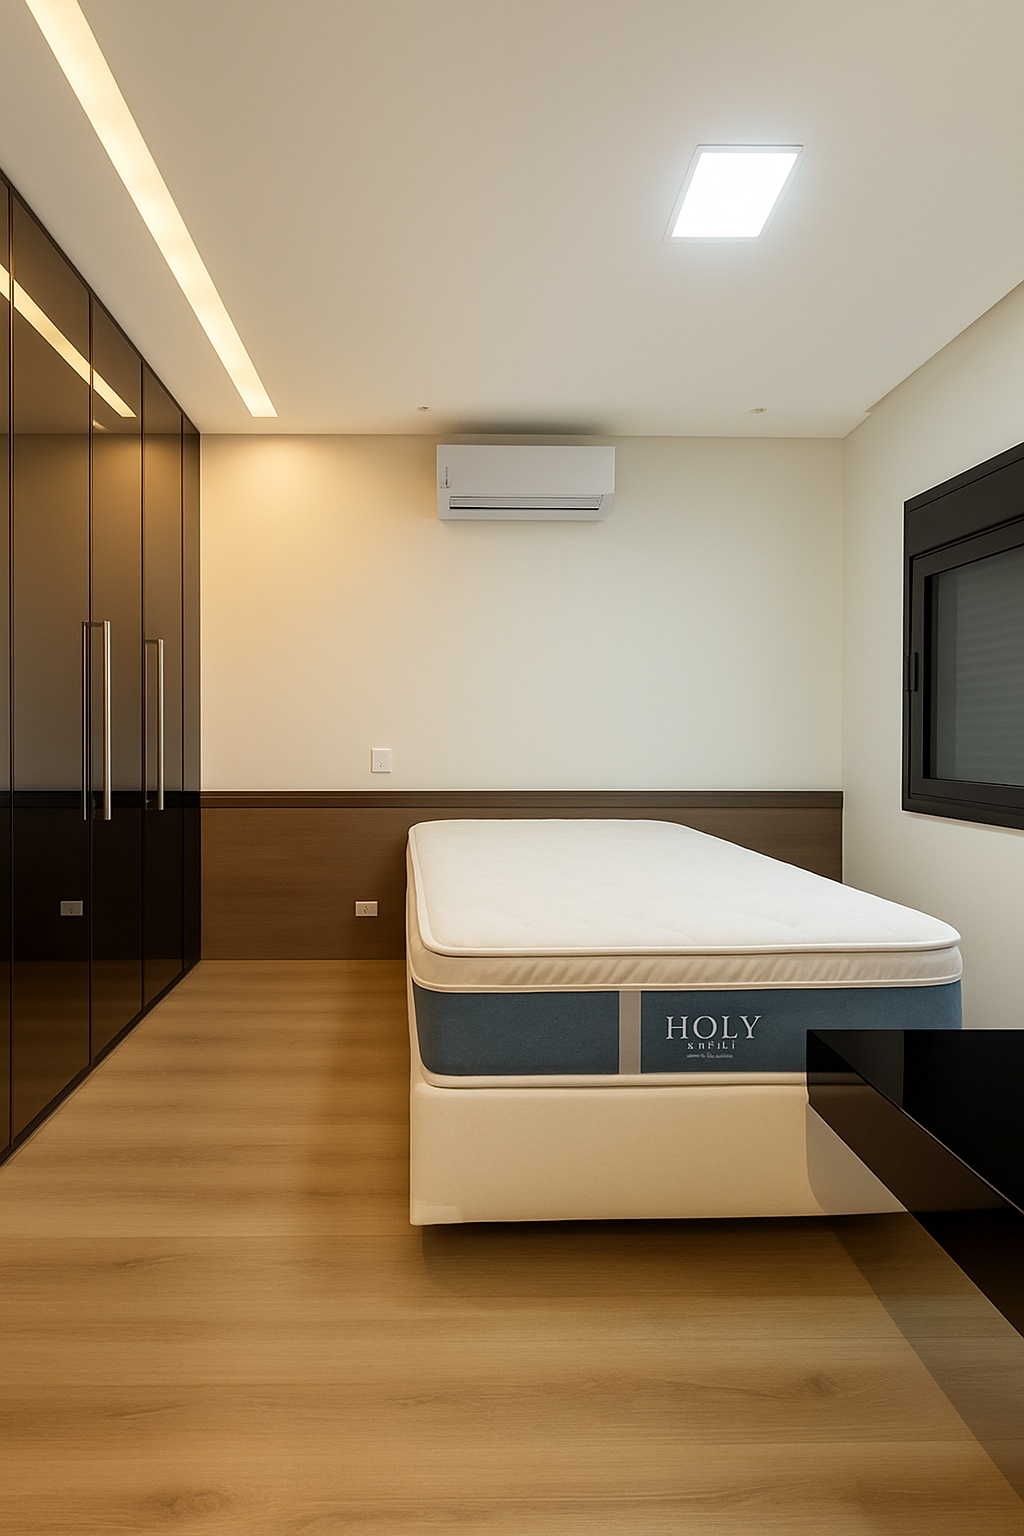
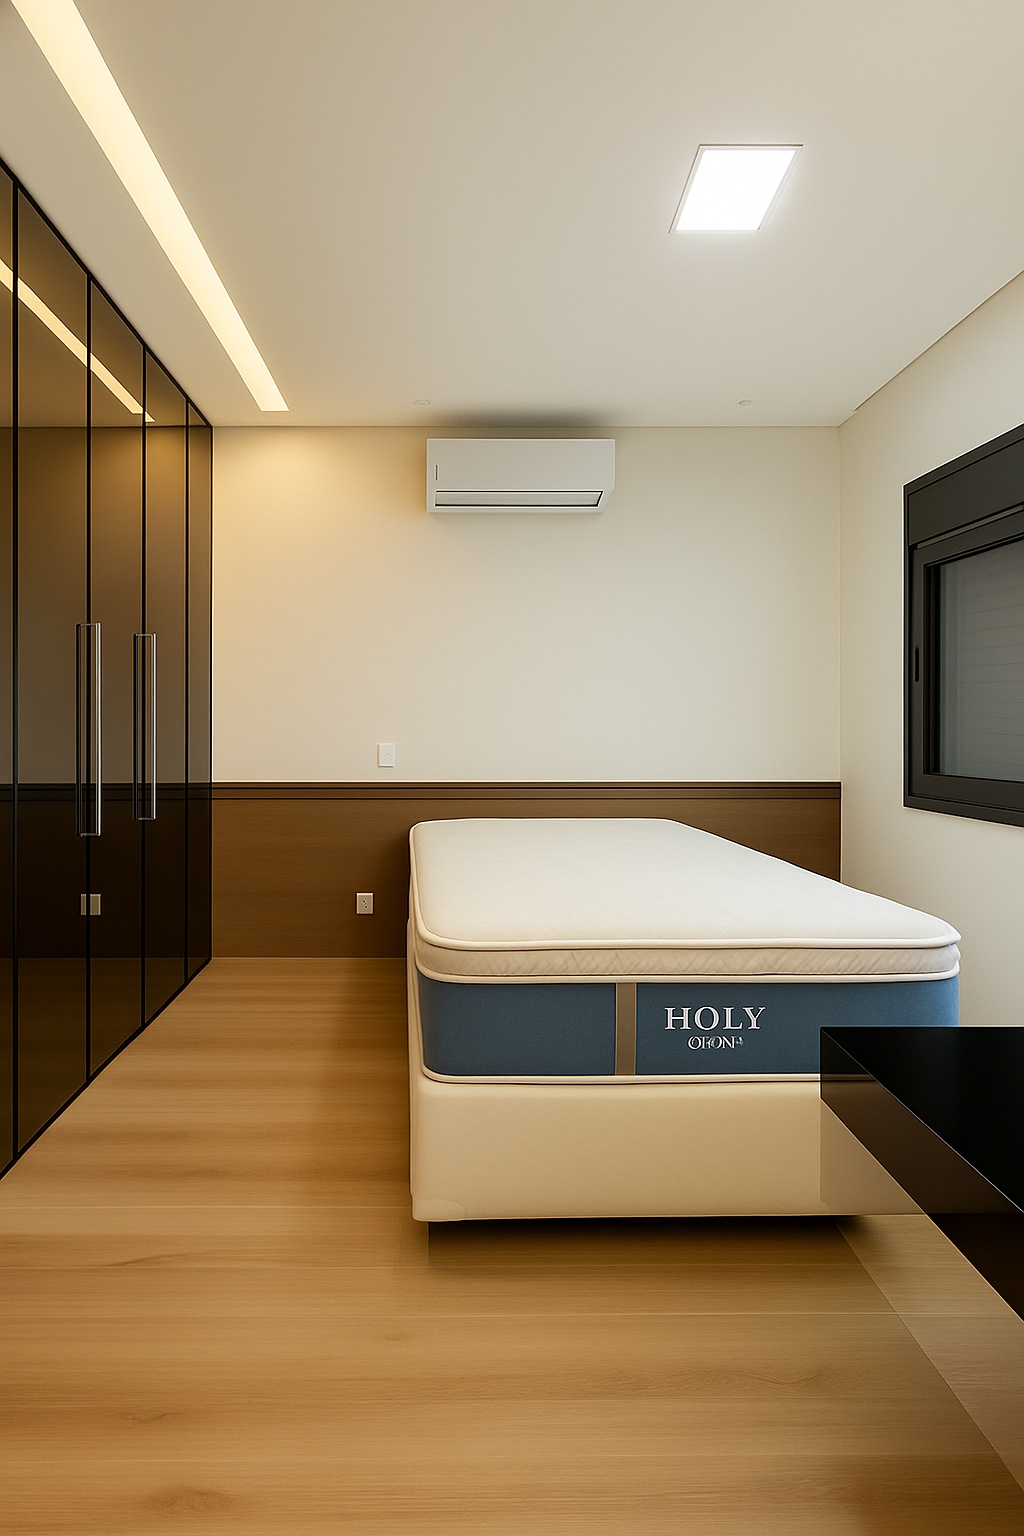
Urbanova: fix ordering/captions, remove 32 from gallery, update 14 glare and 32 comforter

diff --git a/js/listings.js b/js/listings.js
@@ -43,54 +43,36 @@ window.LISTINGS = {
     badge: 'Destaque',
     cover: 'images/listings/urbanova-paratehy/01_fachada.jpg',
     photos: [
-      /* — FACHADA — */
       { src: 'images/listings/urbanova-paratehy/01_fachada.jpg',          caption: 'Fachada Principal' },
-      { src: 'images/listings/urbanova-paratehy/11_fachada_2.jpg',         caption: 'Fachada · Vista Frontal 2' },
-
-      /* — HALL DE ENTRADA — */
-      { src: 'images/listings/urbanova-paratehy/02_hall.jpg',              caption: 'Hall de Entrada' },
-      { src: 'images/listings/urbanova-paratehy/32_extra_03_nb2.jpg',      caption: 'Sala de Estar · Vista Geral' },
-
-      /* — COZINHA INTERNA — */
-      { src: 'images/listings/urbanova-paratehy/18_cozinha_2.jpg',         caption: 'Cozinha Interna · Integração com Sala' },
+      { src: 'images/listings/urbanova-paratehy/11_fachada_2.jpg',        caption: 'Fachada · Vista Frontal 2' },
+      { src: 'images/listings/urbanova-paratehy/02_hall.jpg',             caption: 'Hall de Entrada' },
+      { src: 'images/listings/urbanova-paratehy/03_sala.jpg',             caption: 'Sala de Estar' },
+      { src: 'images/listings/urbanova-paratehy/12_sala_2.jpg',           caption: 'Sala de Estar · Painel TV' },
+      { src: 'images/listings/urbanova-paratehy/27_varanda_jantar.jpg',   caption: 'Varanda · Vista da Sala (Porta Externa)' },
+      { src: 'images/listings/urbanova-paratehy/04_sala_jantar.jpg',      caption: 'Sala de Jantar' },
+      { src: 'images/listings/urbanova-paratehy/18_cozinha_2.jpg',        caption: 'Cozinha Interna · Integração com Sala' },
       { src: 'images/listings/urbanova-paratehy/24_cozinha_interna_pia.jpg', caption: 'Cozinha Interna · Pia e Bancada' },
       { src: 'images/listings/urbanova-paratehy/25_cozinha_interna_fornos.jpg', caption: 'Cozinha Interna · Fornos Embutidos' },
-      { src: 'images/listings/urbanova-paratehy/04_sala_jantar.jpg',       caption: 'Sala de Jantar' },
-
-      /* — ÁREA GOURMET EXTERNA — */
-      { src: 'images/listings/urbanova-paratehy/05_cozinha.jpg',           caption: 'Área Gourmet · Cozinha Externa' },
-      { src: 'images/listings/urbanova-paratehy/16_area_gourmet.jpg',      caption: 'Área Gourmet' },
-      { src: 'images/listings/urbanova-paratehy/27_varanda_jantar.jpg',    caption: 'Varanda · Mesa de Jantar' },
-      { src: 'images/listings/urbanova-paratehy/17_varanda_2.jpg',         caption: 'Varanda · Pergolado' },
-
-      /* — PISCINA — */
-      { src: 'images/listings/urbanova-paratehy/09_piscina.jpg',           caption: 'Piscina' },
-      { src: 'images/listings/urbanova-paratehy/15_piscina_noturna.jpg',   caption: 'Fachada Posterior · Piscina' },
-      { src: 'images/listings/urbanova-paratehy/34_extra_05_nb2.jpg',      caption: 'Piscina · Vista Exterior' },
-
-      /* — SUÍTE MASTER + BANHEIROS — */
-      { src: 'images/listings/urbanova-paratehy/10_varanda.jpg',           caption: 'Suíte Master · Varanda' },
-      { src: 'images/listings/urbanova-paratehy/03_sala.jpg',              caption: 'Suíte Master · Ambiente' },
-      { src: 'images/listings/urbanova-paratehy/12_sala_2.jpg',            caption: 'Suíte Master · Painel TV' },
-      { src: 'images/listings/urbanova-paratehy/13_banheiro_master.jpg',   caption: 'Suíte Master · Banheira' },
+      { src: 'images/listings/urbanova-paratehy/26_cozinha_interna_ilha.jpg', caption: 'Cozinha Interna · Ilha Central' },
+      { src: 'images/listings/urbanova-paratehy/05_cozinha.jpg',          caption: 'Área Gourmet · Cozinha Externa' },
+      { src: 'images/listings/urbanova-paratehy/16_area_gourmet.jpg',     caption: 'Área Gourmet' },
+      { src: 'images/listings/urbanova-paratehy/17_varanda_2.jpg',        caption: 'Varanda · Pergolado' },
+      { src: 'images/listings/urbanova-paratehy/09_piscina.jpg',          caption: 'Piscina' },
+      { src: 'images/listings/urbanova-paratehy/15_piscina_noturna.jpg',  caption: 'Fachada Posterior · Piscina' },
+      { src: 'images/listings/urbanova-paratehy/10_varanda.jpg',          caption: 'Suíte Master · Varanda' },
+      { src: 'images/listings/urbanova-paratehy/14_quarto.jpg',           caption: 'Suíte Master · Quarto' },
+      { src: 'images/listings/urbanova-paratehy/13_banheiro_master.jpg',  caption: 'Suíte Master · Banheira' },
       { src: 'images/listings/urbanova-paratehy/28_banheiro_master_passagem.jpg', caption: 'Banheiro Master · Acesso' },
-      { src: 'images/listings/urbanova-paratehy/22_banheiro_spa.jpg',      caption: 'Banheiro · Spa' },
-      { src: 'images/listings/urbanova-paratehy/23_banheiro_jacuzzi.jpg',  caption: 'Suíte · Jacuzzi' },
-
-      /* — QUARTOS — */
-      { src: 'images/listings/urbanova-paratehy/14_quarto.jpg',            caption: 'Suíte' },
-      { src: 'images/listings/urbanova-paratehy/20_quarto_2.jpg',          caption: 'Suíte 2' },
-      { src: 'images/listings/urbanova-paratehy/21_quarto_3.jpg',          caption: 'Suíte 3' },
-      { src: 'images/listings/urbanova-paratehy/31_quarto_kids.jpg',       caption: 'Quarto Infantil' },
-
-      /* — OUTROS AMBIENTES — */
-      { src: 'images/listings/urbanova-paratehy/29_banheiro_3d.jpg',       caption: 'Banheiro · Detalhes' },
-      { src: 'images/listings/urbanova-paratehy/06_banheiro.jpg',          caption: 'Banheiro Suíte' },
-      { src: 'images/listings/urbanova-paratehy/07_escritorio.jpg',        caption: 'Escritório' },
+      { src: 'images/listings/urbanova-paratehy/22_banheiro_spa.jpg',     caption: 'Banheiro · Spa' },
+      { src: 'images/listings/urbanova-paratehy/23_banheiro_jacuzzi.jpg', caption: 'Banheiro · Jacuzzi' },
+      { src: 'images/listings/urbanova-paratehy/20_quarto_2.jpg',         caption: 'Suíte 2' },
+      { src: 'images/listings/urbanova-paratehy/29_banheiro_3d.jpg',      caption: 'Banheiro · Detalhes' },
+      { src: 'images/listings/urbanova-paratehy/31_quarto_kids.jpg',      caption: 'Quarto Infantil · Vista TV' },
+      { src: 'images/listings/urbanova-paratehy/21_quarto_3.jpg',         caption: 'Quarto Infantil · Vista Cama' },
+      { src: 'images/listings/urbanova-paratehy/06_banheiro.jpg',         caption: 'Banheiro Suíte' },
+      { src: 'images/listings/urbanova-paratehy/07_escritorio.jpg',       caption: 'Escritório' },
       { src: 'images/listings/urbanova-paratehy/30_escritorio_armarios.jpg', caption: 'Escritório · Armários' },
-      { src: 'images/listings/urbanova-paratehy/33_extra_04_nb2.jpg',      caption: 'Lavabo · Ônix Importado' },
-      { src: 'images/listings/urbanova-paratehy/08_cinema.jpg',            caption: 'Sala de Cinema' }
-
+      { src: 'images/listings/urbanova-paratehy/08_cinema.jpg',           caption: 'Sala de Cinema' }
     ],
     desc: 'Casa de alto padrão em condomínio fechado nas Colinas do Paratehy Sul. 510 m² construídos · 600 m² de terreno · 4 suítes (master 88 m² com closet e banheira dupla) · sala cinema · lareira suspensa · cozinha gourmet · piscina · biometria · cisterna 8.000L. Venda porteira fechada.',
     descParas: [
